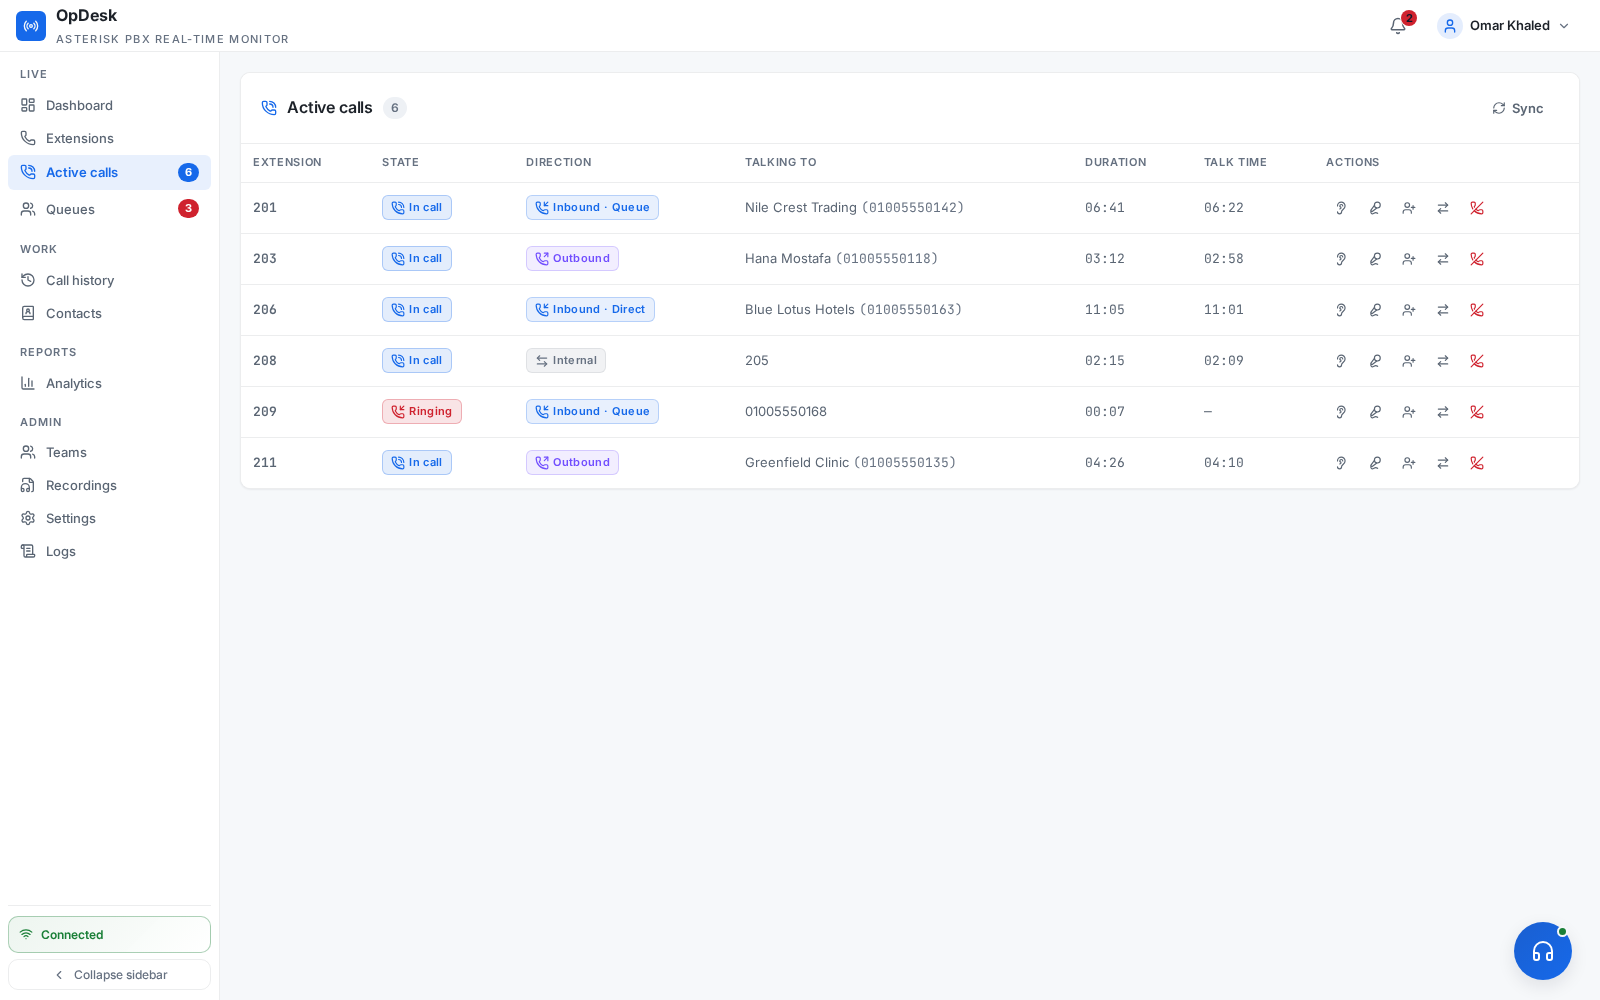
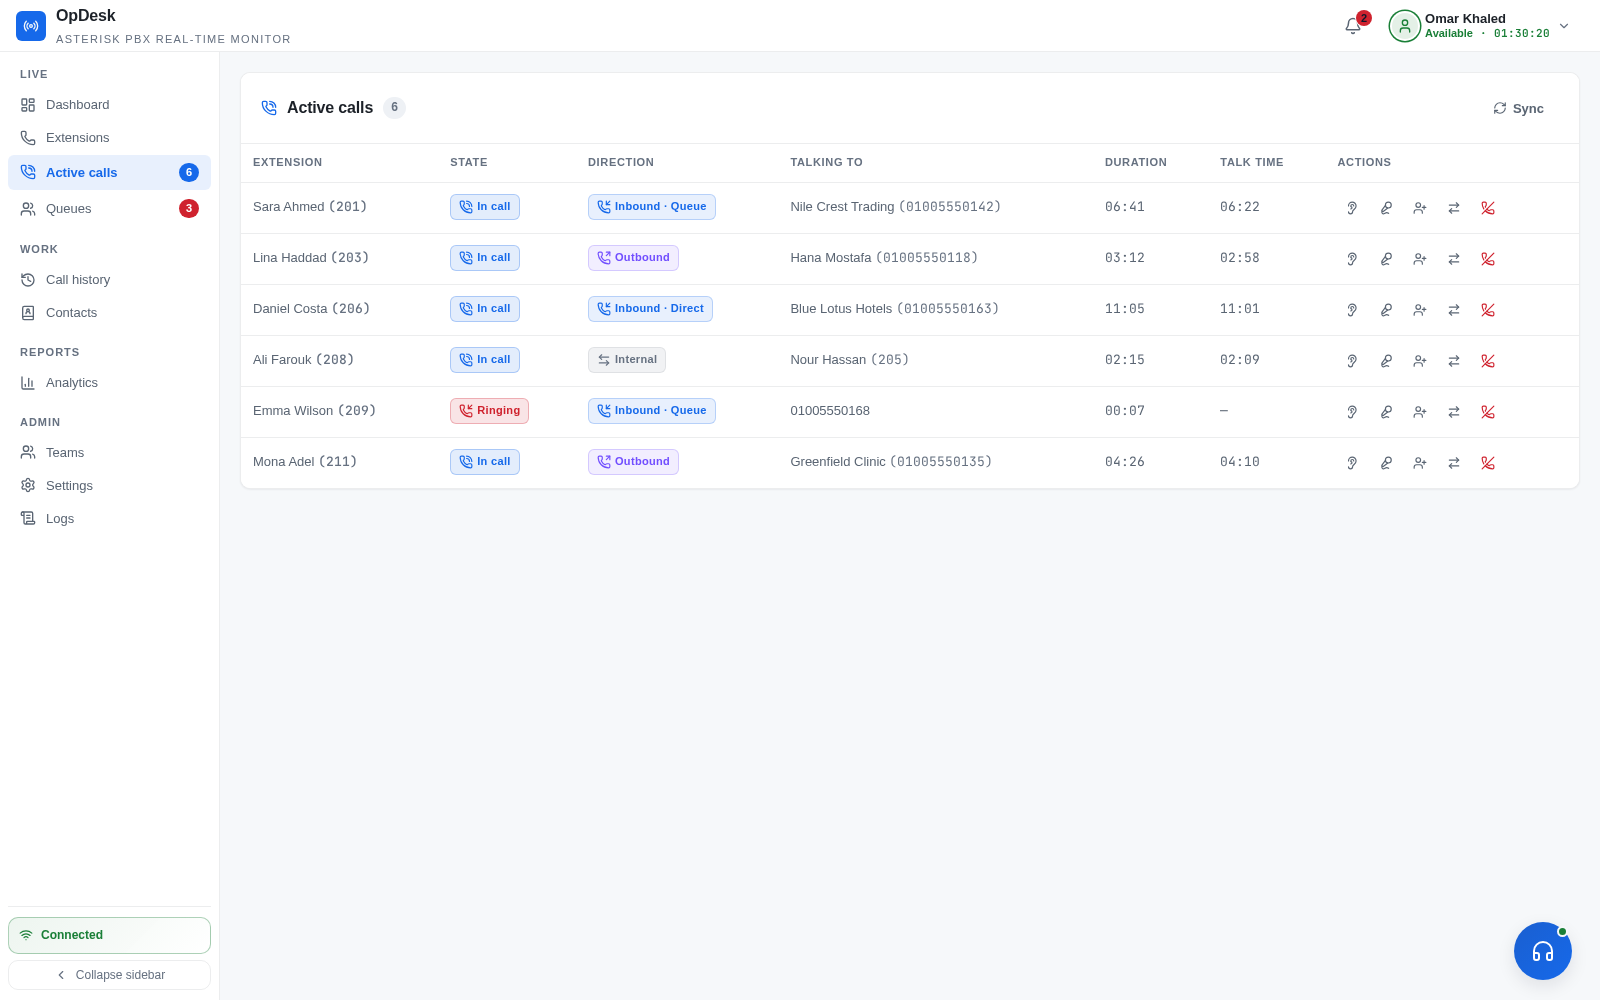
README and screenshots on the current UI; clearer supervisor extension field
- Retake the 17 README screenshots and add Agent adherence and a supervisor
  adding an agent. Fictional demo data, every backend call mocked.
- README: presence, supervisors adding agents, one call push per phone.
- The supervisor's add-agent form no longer labels its required extension
  "optional", and the empty picker says what to choose.

diff --git a/frontend/src/components/UsersPanel.tsx b/frontend/src/components/UsersPanel.tsx
@@ -665,13 +665,14 @@ export function UsersPanel(props: UsersPanelProps = {}) {
                   placeholder={t('fields.fullName')}
                 />
               </FormField>
-              <FormField label={t('users.extension')} required={isSupervisor}>
+              <FormField label={isSupervisor ? t('fields.extension') : t('users.extension')} required={isSupervisor}>
                 <Dropdown
                   size="md"
                   value={form.extension ?? ''}
                   onChange={handleExtensionSelect}
                   icon={Phone}
                   ariaLabel={t('users.extension')}
+                  placeholder={isSupervisor ? t('users.extensionRequired', 'Choose an extension for the new agent.') : undefined}
                   searchPlaceholder={t('users.searchExtension', 'Search extension…')}
                   options={[
                     ...(isSupervisor ? [] : [{ value: '', label: t('common.none', 'None') }]),

diff --git a/README.md b/README.md
@@ -20,13 +20,14 @@ A real-time operator panel for **Asterisk PBX** (Issabel 5 / FreePBX 16 and 17),
 - **Real-time panel**: extension status, active calls, queues and call notifications pushed over a WebSocket, with no polling.
 - **Dashboard**: active, waiting and ringing calls, longest wait, agent availability and today's KPIs.
 - **Supervision**: listen, whisper and barge, allowed per user.
-- **Three roles**: **Admin** (everything), **Supervisor** (their assigned agents and queues), **Agent** (their own call history; live view of their groups).
+- **Three roles**: **Admin** (everything), **Supervisor** (their assigned agents and queues; can add agents, who join their groups automatically), **Agent** (their own call history; live view of their groups).
 - **Extensions page**: every extension as a card (or a row in List view) with its status, time in state, how much of its break window is used (amber from 80%, red past it), its queues and its live call. Supervisors and admins get a ⋯ menu on each card: set a break or Available, log in or out of queues, turn DND on or off, listen / whisper / barge, the agent's timeline and calls today, or call the extension. The agent sees a message saying who changed their status, and the change is in the audit log.
+- **Presence**: availability follows the phone. Queue login is separate and ends only on a logout or DND. A call during a break or wrap-up counts as On Call, and a daily shift reset restarts the timers and signs off idle agents.
 - **Not-Ready codes**: agents pause with a reason. The reason is kept across device changes, wrap-up time is applied after calls, and adherence is reported per agent with a timeline.
 
 **Calling**
 - **Web softphone**: make and take calls in the browser over WebRTC, with hold, mute, transfer, queue login/logout, DND, and Available / Break with a reason code. The same status controls are in the header profile menu, and the avatar there wears your status colour.
-- **Mobile softphone**: sign a phone in by scanning a QR code, and wake a closed app for incoming calls with **RFC 8599** push (FCM / APNs VoIP). Recommended app: [Medut Softphone](https://github.com/Ibrahimgamal99/medut-softphone). → [guide](docs/guides/mobile-push.md)
+- **Mobile softphone**: sign a phone in by scanning a QR code, and wake a closed app for incoming calls with **RFC 8599** push (FCM / APNs VoIP), one push per phone, showing the caller's name. Recommended app: [Medut Softphone](https://github.com/Ibrahimgamal99/medut-softphone). → [guide](docs/guides/mobile-push.md)
 - **Recording**: full-call and per-leg recordings, with recording policy per direction and extension, retention, storage stats, and automatic talk/silence analysis (Silero VAD).
 
 **History and analytics**
@@ -67,9 +68,9 @@ A real-time operator panel for **Asterisk PBX** (Issabel 5 / FreePBX 16 and 17),
 |---|---|---|
 | [![Softphone](screenshots/softphone.png)](screenshots/softphone.png) | [![Incoming call](screenshots/softphone_ringing.png)](screenshots/softphone_ringing.png) | [![Mobile app QR](screenshots/mobile_qr.png)](screenshots/mobile_qr.png) |
 
-| Mobile Wake settings |   |   |
+| Mobile Wake settings | Agent adherence | Supervisor adds an agent |
 |---|---|---|
-| [![Mobile Wake settings](screenshots/mobile_wake.png)](screenshots/mobile_wake.png) |   |   |
+| [![Mobile Wake settings](screenshots/mobile_wake.png)](screenshots/mobile_wake.png) | [![Agent adherence](screenshots/adherence.png)](screenshots/adherence.png) | [![Supervisor adds an agent](screenshots/supervisor_teams.png)](screenshots/supervisor_teams.png) |
 
 ---
 
